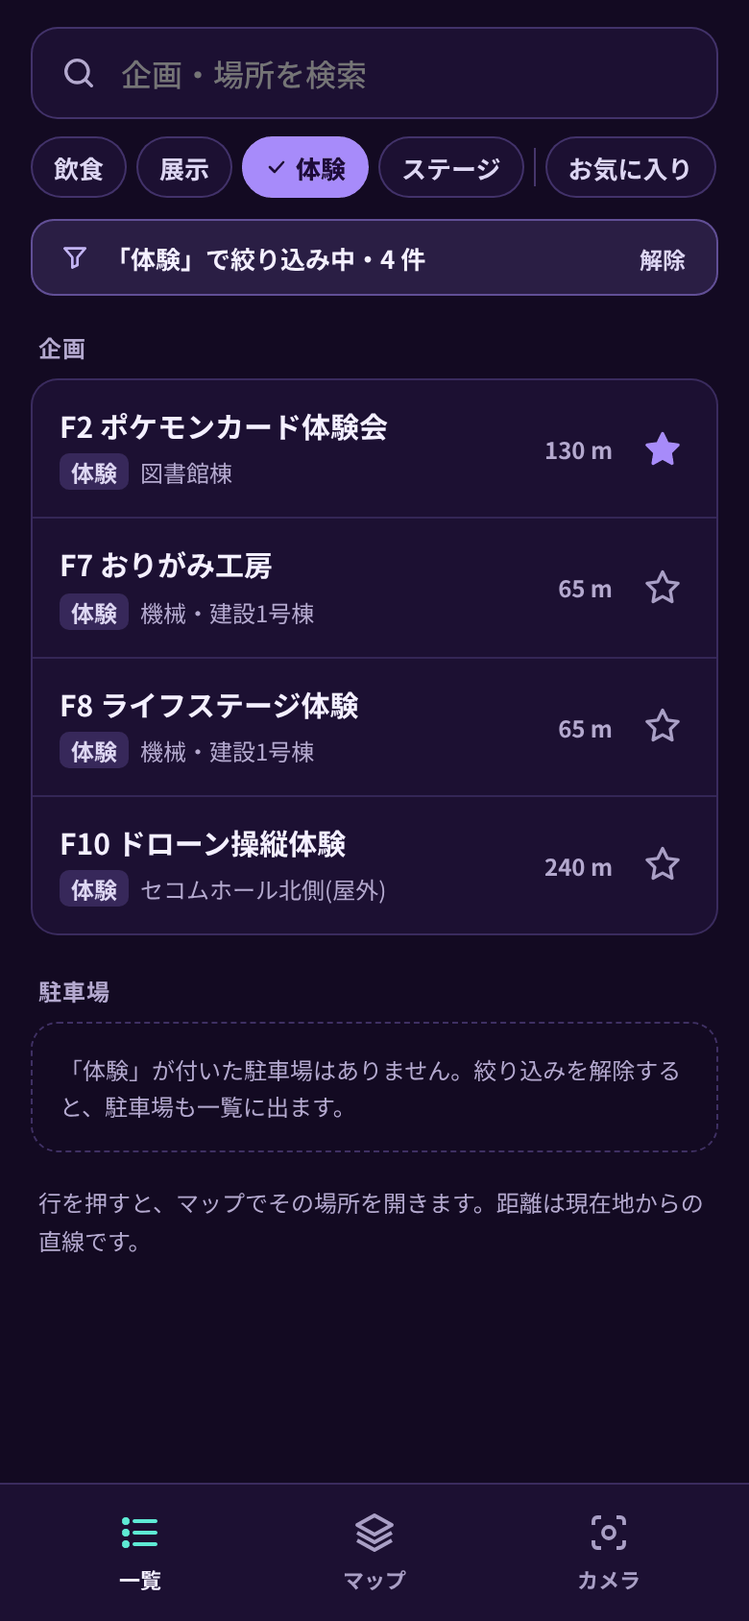
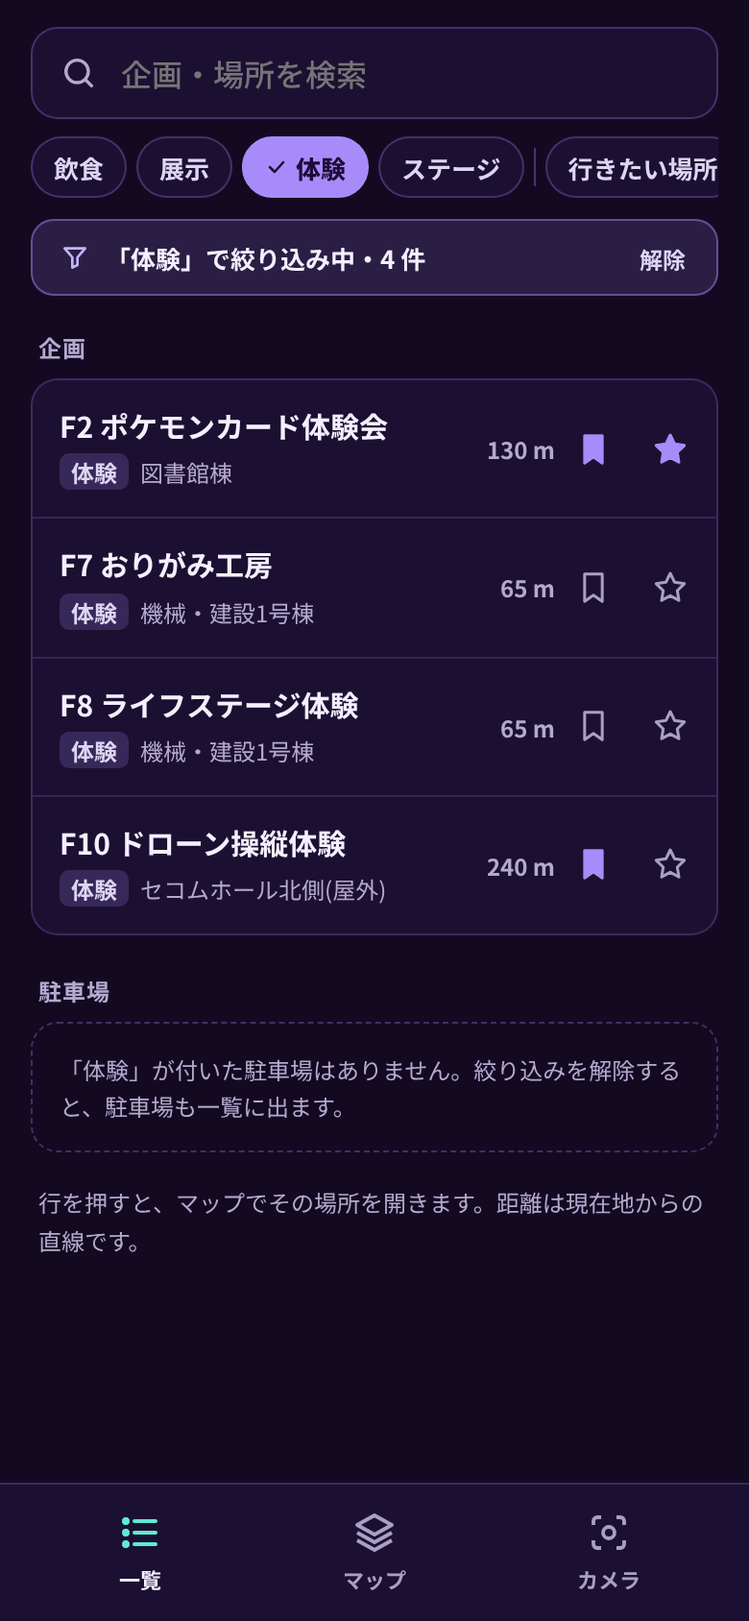
画面設計に D-012〜D-014(絞り込みと検索、行き先、自分用のタグ)を反映

diff --git a/doc/screen-design/screen-selection.md b/doc/screen-design/screen-selection.md
@@ -1,6 +1,6 @@
 # NAsVI 画面選定
 
-作成: 2026-11-20 / 状態: チームの合意前の案
+作成: 2026-11-20 / 更新: 2026-11-21(D-012〜D-014 を反映) / 状態: チームの合意前の案
 
 - もとにした概念設計: `concept-design/concepts.yaml` と `doc/concept-design.md`(r4、main `b4cf226`)
 - 画面のワイヤーフレーム: [wireframe.md](wireframe.md)(画像と付箋)。表の「ワイヤーフレーム」列の V1-a などは、ワイヤーフレームの画面の名前
@@ -9,8 +9,8 @@
 この文書で使う記号
 
 - **F1〜F5**: 機能(`input.yaml`)。F1 行きたい場所を見つける、F2 行き先へ向かう、F3 混雑・感想を知る、F4 種類・自分用タグから選ぶ(任意)、F5 迷いを解く(任意)。「F2 の失敗時」などは、`criteria.yaml` の評価基準を指す
-- **OQ-n**: 未決事項(`open-questions.yaml`)。この文書に出てくるのは OQ-1(場所を登録する運営をどう識別するか)と OQ-2(GPS が取れないとき、現在地を手で指定する操作を入れるか)
-- **D-004**: 設計の判断の記録(`decisions.yaml`)。「地図は表現なので概念にしない」
+- **OQ-n**: 未決事項(`open-questions.yaml`)。この文書に出てくるのは OQ-1(場所を登録する運営をどう識別するか)、OQ-2(GPS が取れないとき、現在地を手で指定する操作を入れるか)、OQ-13(自作タグの名前の決まりと上限)
+- **D-nnn**: 設計の判断の記録(`decisions.yaml`)。この文書に出てくるのは D-004(地図は表現なので概念にしない)、D-012(絞り込みは検索結果にも効かせる)、D-013(行き先は場所のカードの「ここへ向かう」で決める)、D-014(自分用のタグは「行きたい場所」「お気に入り」と自作。保存は各自の端末の中)
 - **同期**: 概念どうしをつなぐ規則(`concepts.yaml` の syncs)。search-places などは同期の名前
 - **※**: 概念設計の変更が要る所。1 章の後半の表にまとめた(決めるのはチーム)
 
@@ -21,8 +21,8 @@
 | 概念 | 目的 | 来場者が行う操作 | 運営が行う操作 |
 |---|---|---|---|
 | Place(場所) | 運営が登録した場所(企画・駐車場)を、来場者が知る | 場所の一覧と位置を見る(showPlaces)、1 件の情報を見る | 場所を登録・編集・削除する(registerPlace・updatePlace・removePlace) |
-| Search(検索) | 名前の一部から、目当ての場所を見つける | 名前の一部で探す(search)、文章で探す(searchNatural、拡張) | なし(場所を登録すると、自動で検索の対象に入る) |
-| Labeling(種類・自分用タグ) | 種類や自分用のタグで絞って選ぶ | 種類で絞る・解除する(applyFilter・clearFilter・browse)、お気に入りを付ける・外す(markPlace・unmarkPlace。初めて付けるときは defineMyTag も) | 種類を定める・場所に付ける(defineLabel・assignLabel) |
+| Search(検索) | 名前の一部から、目当ての場所を見つける | 名前の一部で探す(search)、文章で探す(searchNatural、拡張)。絞り込み中は、結果も絞る(D-012) | なし(場所を登録すると、自動で検索の対象に入る) |
+| Labeling(種類・自分用タグ) | 種類や自分用のタグで絞って選ぶ | 種類やタグで絞る・解除する(applyFilter・clearFilter・browse)、「行きたい場所」「お気に入り」・自作のタグを付ける・外す(markPlace・unmarkPlace)、自作のタグを作る(defineMyTag)。タグは各自の端末の中に保存し、API には載せない(D-014) | 種類を定める・場所に付ける(defineLabel・assignLabel) |
 | Position(現在地) | 自分がいま会場のどこにいるかを知る | 位置の利用を許可・拒否する(allowLocation・refuseLocation)、手で現在地を指定する(setPosition、OQ-2)。現在地の更新(reportPosition)は端末が自動で行う | なし |
 | Destination(行き先) | 向かう先を 1 つ決め、方角と距離の案内を受ける | 行き先を決める(chooseDestination)、案内を見る(showRoute)、案内をやめる(※) | なし |
 | Stamp(スタンプ) | 足元にスタンプを押して混雑や感想を共有し、他の人がそれを見て場所を選ぶ | スタンプを押す(pressStamp)、取り消す(retractStamp)、地図で見る(showStamps) | なし |
@@ -37,6 +37,8 @@
 | 設備(案内所・トイレ・休憩所・ゴミ箱)の印 | V1 マップ、表示する印 | Place.kind に設備の種類を足す |
 | 建物の中の地図と、階の切り替え | 建物の中の地図、O1、O2 | Place に「建物と階」を持たせる。階ごとの見取り図は、目的が Place とも Landmark とも違うので、新しい概念の候補 |
 | 案内をやめる | 案内中 | 来場者が Destination.clear を呼ぶ同期を足す(いまは、場所を削除したときの連動からしか呼ばれない) |
+| 検索結果の絞り込み(D-012) | 検索結果、一致なし | 同期 search-places の where に、絞り込み(Labeling.filtering)を入れる(#17) |
+| 自分用のタグの端末内保存と、最初からある 2 つのタグ(D-014) | 場所のカード、タグを付ける・作る、V2 一覧 | Labeling.owner を残すか外すか。「行きたい場所」「お気に入り」を初期のラベルとしてどう表すか(defineMyTag は自作の分だけになる)(#17) |
 
 なお、地図に表示する印の切り替え(チェック)は画面の中の見せ方なので、概念設計の変更は要らない(端末の中に保存する)。
 
@@ -46,15 +48,16 @@
 
 | 画面 | 主役の概念 | 一緒に表示する概念 | できる操作 | まとめた/分けた理由 | ワイヤーフレーム |
 |---|---|---|---|---|---|
-| **V1 マップ(ホーム)** | Place(場所の位置) | Position、Stamp、Labeling(絞り込み)、Search(検索窓)、設備の印 ※ | 地図を見る、拡大・縮小する、種類やお気に入りで絞る、検索窓に入力する、建物の旗を押す、スタンプボタンを押す、現在地へ移動する | 位置を持つ概念は、どれも地図に重ねて描ける(D-004)。F2(行き先を決めたら、追加の操作なしで方角と距離が出る)、F3(スタンプは 2 操作以内)、F4(絞ると地図の印も絞られる)を満たすため、1 つの画面にまとめた。全体と拡大は同じ画面の見せ方の違いで、屋外の企画の名前とスタンプの文字は、拡大したときだけ出す | V1-a、V1-i |
-| └ 検索結果(V1 に重ねる) | Search | Place(名前・場所・距離) | 名前の一部で探す、結果を押してカードを開く、一致しないときは別の言葉で探すか一覧へ移る | 同期 search-places は Search と Place を同時に読むので、同じ所に出す。結果から場所のカードまで画面を変えずに進めるよう、地図の上に重ねた。一致しないとき(F1 の失敗時)も、同じ場所で次の手を示す | V1-b、V1-c |
-| └ 場所のカード(V1 に重ねる) | Place(1 件) | Destination、Labeling(お気に入り) | 場所の情報を見る、ここへ向かう、お気に入りを付ける・外す | 行き先にする・お気に入りにするは、どちらも 1 つの場所に対する操作なので、同じカードにまとめた。場所の位置は地図の上で意味を持つので、地図に重ねる。カードを開いただけでは行き先にせず、見るだけ(F1)と向かう(F2)を分けた | V1-d |
+| **V1 マップ(ホーム)** | Place(場所の位置) | Position、Stamp、Labeling(絞り込み)、Search(検索窓)、設備の印 ※ | 地図を見る、拡大・縮小する、種類や自分用のタグで絞る、検索窓に入力する、建物の旗を押す、スタンプボタンを押す、現在地へ移動する | 位置を持つ概念は、どれも地図に重ねて描ける(D-004)。F2(行き先を決めたら、追加の操作なしで方角と距離が出る)、F3(スタンプは 2 操作以内)、F4(絞ると地図の印も絞られる)を満たすため、1 つの画面にまとめた。全体と拡大は同じ画面の見せ方の違いで、屋外の企画の名前とスタンプの文字は、拡大したときだけ出す | V1-a、V1-i |
+| └ 検索結果(V1 に重ねる) | Search | Place(名前・場所・距離)、Labeling(絞り込み中の表示 ※) | 名前の一部で探す、結果を押してカードを開く、絞り込みを解除する、一致しないときは別の言葉で探すか一覧へ移る | 同期 search-places は Search と Place を同時に読むので、同じ所に出す。結果から場所のカードまで画面を変えずに進めるよう、地図の上に重ねた。絞り込み中は検索結果も絞る(D-012)ので、帯でそのことを示し、解除できるようにした。一致しないとき(F1 の失敗時)も、同じ場所で次の手を示す | V1-b、V1-c |
+| └ 場所のカード(V1 に重ねる) | Place(1 件) | Destination、Labeling(行きたい場所・お気に入り) | 場所の情報を見る、ここへ向かう、行きたい場所・お気に入りを付ける・外す、タグの画面を開く | 行き先にする・タグを付けるは、どちらも 1 つの場所に対する操作なので、同じカードにまとめた。場所の位置は地図の上で意味を持つので、地図に重ねる。カードを開いただけでは行き先にせず、「ここへ向かう」で決める(D-013)。見るだけ(F1)と向かう(F2)を分けるため | V1-d |
+| └ タグを付ける・作る(V1 に重ねる) | Labeling(自分用のタグ)※ | Place(1 件) | タグを付ける・外す、新しいタグを作る | タグは 1 つの場所に付けるので、場所のカードの「＋ タグ」から開く。自作のタグは名前を入れる欄が要るので、カードとは別のシートにした。タグは端末の中にだけ保存する(D-014)ので、消えることがあると、ここで伝える。名前の決まりと上限は未決(OQ-13) | V1-l |
 | └ 案内中(V1 に重ねる) | Destination | Position、Place | 方角・距離・更新時刻を見る、カメラで見る、案内をやめる ※ | 同期 guide-on-move は Position・Destination・Place を同時に読む。F2(追加の操作なしで位置関係が分かる)を満たすため、別の画面に移さず、カードをそのまま案内の表示に切り替える | V1-e |
 | └ スタンプを押す(V1 に重ねる) | Stamp | Position | 混雑 1〜5 か、感想 3 種類のどれかを押す、取り消す | 同期 press-stamp は Position の現在地を使う。F3(2 操作以内)を満たすため、スタンプボタン → 種類 の 2 操作で押せるシートにした | V1-f |
 | └ 位置が使えない(V1 の状態) | Position | なし | 位置の利用を許可する、地図で現在地を指定する(OQ-2) | 位置の許可・拒否は端末の許可の結果なので、別の画面にはしない。F2 の失敗時の扱い(できなくなることと、代わりにできること)を、地図の上の帯で示す | V1-g |
 | └ 表示する印(V1 に重ねる) | なし(見せ方の設定) | Place(企画・駐車場・設備 ※)、Stamp(混雑・感想) | 地図に出す印をチェックで選ぶ、すべて表示する | どの概念の状態も変えない見せ方の設定なので、概念にはしない。Labeling の絞り込みは場所を選ぶための機能で、目的が違う。そのため、上のチップ列とは別のパネルに分けた | V1-h |
 | └ 建物の中の地図(V1 に重ねる) | Place(建物と階で絞る)※ | 階ごとの見取り図 ※ | 階を切り替える(最初は 1 階)、企画を押してカードを開く | 屋内の企画の名前は、建物を開いたときに初めて出す。階の切り替えは 1 つの建物の中の操作なので、建物ごとのシートにまとめた | V1-j、V1-k |
-| **V2 一覧** | Place(名前と種別) | Labeling(種類で選ぶ・絞り込み・お気に入り)、Search(検索窓) | 種類で絞る、名前で探す、お気に入りを付ける、行を押してカードを開く | 概念は V1 の一部なので、統合もできる。それでも分けたのは、評価基準が一覧を求めているため(F1・F5 の失敗時に「一覧から探す」、F4 で「種類を選ぶと一覧が出る」)。地図を見ずに、名前や種類で選ぶ人の入口になる。絞り込みの状態は V1 と共有する | V2 |
+| **V2 一覧** | Place(名前と種別) | Labeling(種類やタグで選ぶ・絞り込み・行きたい場所・お気に入り)、Search(検索窓) | 種類やタグで絞る、名前で探す、行きたい場所・お気に入りを付ける、行を押してカードを開く | 概念は V1 の一部なので、統合もできる。それでも分けたのは、評価基準が一覧を求めているため(F1・F5 の失敗時に「一覧から探す」、F4 で「種類を選ぶと一覧が出る」)。地図を見ずに、名前や種類で選ぶ人の入口になる。絞り込みの状態は V1 と共有する | V2 |
 | **V3 カメラ** | Landmark | Place(棟の企画)、Destination(案内バー)、Position | 建物を映す、棟の企画を押す、一覧かマップへ移る | 入力が映像で、画面全体を使う。映像は端末の中で処理し、保存も送信もしない。F5 は任意の機能なので、外すときに画面ごと外せるよう分けた。案内バーを重ねれば、カメラで向かう道案内も兼ねる | V3-a、V3-b、V3-c |
 | **O1 場所の登録・管理**(運営) | Place | Labeling(種類)、建物と階 ※ | 場所を登録・編集・削除する、種類を定める・付ける | 実行者が運営なので(同期の条件「実行者が場所を管理できる」、OQ-1)、来場者の画面と分けた。種類は場所を登録するときに付けるので、同じ画面にした。検索への登録は同期が自動で行うので、画面は要らない | O1 |
 | **O2 建物の登録・管理**(運営) | Landmark | 階ごとの見取り図 ※ | 建物と基準画像を登録・編集・削除する、階の見取り図を登録する | O1 と同じ運営の操作だが、基準画像という別のデータを扱う。F5 を外すときに外しやすいよう、O1 と分けた | O2 |
@@ -85,6 +88,7 @@ flowchart TB
     H["V1-h 表示する印"]
     J["V1-j 建物の中の地図・1階"]
     K["V1-k 建物の中の地図・2階"]
+    T["V1-l タグを付ける・作る"]
   end
   subgraph V3["V3 カメラ(認識の結果で切り替わる)"]
     Va["V3-a 認識できた"]
@@ -111,6 +115,7 @@ flowchart TB
   A -->|"スタンプボタン"| F
   A -.->|"位置を拒否"| G
   D -->|"ここへ向かう"| E
+  D <-->|"＋ タグ"| T
   E -->|"カメラで見る"| V3
   L -->|"行を押す"| D
   Va -->|"棟の企画を押す"| D

diff --git a/doc/screen-design/wireframe.md b/doc/screen-design/wireframe.md
@@ -1,16 +1,16 @@
 # NAsVI ワイヤーフレーム
 
-状態: チームの合意前の案 / 書き出し: 2026-11-20
+状態: チームの合意前の案 / 書き出し: 2026-11-21(D-012〜D-014 を反映)
 
 - 画面の選び方(概念の一覧・画面一覧・画面遷移図)は [screen-selection.md](screen-selection.md)
 - 元のデータは Claude の Design キャンバス(https://claude.ai/artifact/ARBxEgg7ybog3kZK7Qzpo2 )。このページの画像は、そこから書き出したもの。直すときはキャンバスを直し、画像を書き出し直す
 - 来場者はスマートフォンの縦持ち(390×844)、運営は PC。地図の建物の形は © OpenStreetMap contributors(ODbL)
-- 各画像の下の文は、キャンバスの付箋と同じ。引用(左に線)の文は要確認と、概念設計の変更が要る所(※)。記号(F1〜F5・OQ-n・D-nnn・同期・※)の意味は、下の凡例の画像にある
+- 各画像の下の文は、キャンバスの付箋と同じ。引用(左に線)の文は、決まったこと(D-nnn)・未決(OQ-n)・要確認と、概念設計の変更が要る所(※)。記号(F1〜F5・OQ-n・D-nnn・同期・※)の意味は、下の凡例の画像にある
 
 ## 目次
 
 - 凡例
-- 来場者 V1 マップ(ホーム): V1-a マップ・全体、V1-b 検索結果、V1-c 一致なし、V1-d 場所のカード、V1-e 案内中、V1-f スタンプを押す、V1-g 位置が使えない、V1-h 表示する印、V1-i マップ・拡大、V1-j 建物の中の地図・1階、V1-k 建物の中の地図・2階
+- 来場者 V1 マップ(ホーム): V1-a マップ・全体、V1-b 検索結果、V1-c 一致なし、V1-d 場所のカード、V1-e 案内中、V1-f スタンプを押す、V1-g 位置が使えない、V1-h 表示する印、V1-i マップ・拡大、V1-j 建物の中の地図・1階、V1-k 建物の中の地図・2階、V1-l タグを付ける・作る
 - 来場者 V2 一覧・V3 カメラ: V2 一覧(種類で絞り込み中)、V3-a カメラ・認識できた、V3-b カメラ・企画なし、V3-c カメラ・認識できない
 - 運営(PC): O1 場所の登録・管理(運営・PC)、O2 建物の登録・管理(運営・PC)
 - ライト配色・色の例・共通の地図: ライト V1-a マップ・全体、ライト V1-h 表示する印、色の例(ダーク・ライト)、部品: 会場の地図(共通)
@@ -29,13 +29,14 @@
 
 - **主役**: Place(場所の位置)
 - **一緒に表示**: Position、Stamp、Labeling(絞り込み)、Search(検索窓)、設備の印 ※
-- **操作**: 地図を見る、拡大・縮小する、種類やお気に入りで絞る、検索窓に入力する、建物の旗を押す、スタンプボタンを押す、現在地へ移動する
+- **操作**: 地図を見る、拡大・縮小する、種類や自分用のタグで絞る、検索窓に入力する、建物の旗を押す、スタンプボタンを押す、現在地へ移動する
 - **理由**: 位置を持つ概念は、どれも地図に重ねて描ける(D-004)。F2(行き先を決めたら、追加の操作なしで方角と距離が出る)、F3(スタンプは 2 操作以内)、F4(絞ると地図の印も絞られる)を満たすため、1 つの画面にまとめた
 - **要求**: showPlaces、showStamps、reportPosition
 - 建物の形は長岡技術科学大学の OpenStreetMap(出典を画面に表示)
 - 企画のある建物に旗と企画数。押すと建物の中の地図(V1-j)
 - スタンプは色の丸(混雑は橙の濃淡、感想は 3 種類のマーク)
 - 設備(案内所・トイレ・休憩所・ゴミ箱)は白い丸。位置は仮
+- チップは横にスクロール。種類のあとに自分用のタグ(行きたい場所・お気に入り、D-014)
 
 ### V1-b 検索結果
 
@@ -44,15 +45,16 @@
 **V1-b 検索結果(V1 に重ねる)**
 
 - **主役**: Search
-- **一緒に表示**: Place(名前・場所・距離)
-- **操作**: 名前の一部で探す、結果を押してカードを開く、一致しないときは別の言葉で探すか一覧へ移る
-- **理由**: 同期 search-places は Search と Place を同時に読むので、同じ所に出す。結果から場所のカードまで画面を変えずに進めるよう、地図の上に重ねた
+- **一緒に表示**: Place(名前・場所・距離)、Labeling(絞り込み中の表示 ※)
+- **操作**: 名前の一部で探す、結果を押してカードを開く、絞り込みを解除する、一致しないときは別の言葉で探すか一覧へ移る
+- **理由**: 同期 search-places は Search と Place を同時に読むので、同じ所に出す。結果から場所のカードまで画面を変えずに進めるよう、地図の上に重ねた。絞り込み中は検索結果も絞る(D-012)ので、帯で示して解除できるようにした
 - **要求**: search
 - 入力のたびに、検索窓の下に結果。企画名・場所・直線距離
 - 結果を押すと V1-d のカードへ
+- この盤は「行きたい場所」で絞り込み中の状態(解除すると 3 件)
 - 「文章で探す」(searchNatural)は Laya の拡張(OQ-8)
 
-> **要確認: 絞り込み中に、検索結果も絞るか。概念設計では、絞り込みは show-places にだけ効く**
+> **決定(D-012): 絞り込み中は、検索結果も絞る。concepts.yaml の同期 search-places は、まだ直していない(#17 でチームが決める)**
 
 ### V1-c 一致なし
 
@@ -62,6 +64,7 @@
 
 - **理由**: 一致しないとき(F1 の失敗時)も、同じ場所で次の手を示す
 - 何も出さないのではなく、一致が無いことを出す
+- 絞り込み中は「絞り込みを解除して探す」を先に出す(D-012)。絞り込みをしていないときは、この 1 行と説明を出さない
 - 「別の言葉で探す」: 入力を消して打ち直す
 - 「一覧から探す」: V2 へ
 
@@ -72,14 +75,15 @@
 **V1-d 場所のカード(V1 に重ねる)**
 
 - **主役**: Place(1 件)
-- **一緒に表示**: Destination、Labeling(お気に入り)
-- **操作**: 場所の情報を見る、ここへ向かう、お気に入りを付ける・外す
-- **理由**: 行き先にする・お気に入りにするは、どちらも 1 つの場所に対する操作なので、同じカードにまとめた。場所の位置は地図の上で意味を持つので、地図に重ねる。カードを開いただけでは行き先にせず、見るだけ(F1)と向かう(F2)を分けた
-- **要求**: chooseDestination、markPlace / unmarkPlace(初めて付けるときは defineMyTag も)
+- **一緒に表示**: Destination、Labeling(行きたい場所・お気に入り)
+- **操作**: 場所の情報を見る、ここへ向かう、行きたい場所・お気に入りを付ける・外す、タグの画面(V1-l)を開く
+- **理由**: 行き先にする・タグを付けるは、どちらも 1 つの場所に対する操作なので、同じカードにまとめた。場所の位置は地図の上で意味を持つので、地図に重ねる。カードを開いただけでは行き先にせず、「ここへ向かう」で決める(D-013)。見るだけ(F1)と向かう(F2)を分けるため
+- **要求**: chooseDestination、markPlace / unmarkPlace
 - 検索結果、一覧、建物の中の地図(V1-k)、カメラ(V3)から開く
-- お気に入りは押すと切り替わる。他の来場者には見えない
+- 行きたい場所・お気に入りは押すと切り替わる。自作のタグは「＋ タグ」から(V1-l)
+- タグは端末の中に保存し、他の来場者には見えない(D-014)
 
-> **要確認: カードを開いただけでは行き先にせず、「ここへ向かう」を押したときに行き先にする形でよいか**
+> **決定(D-013): カードを開いただけでは行き先にせず、「ここへ向かう」を押したときに行き先にする。経路は直線のまま(D-003)**
 
 ### V1-e 案内中
 
@@ -188,6 +192,23 @@
 - 屋内の企画の名前は、建物を開いたときに初めて出る
 - 見取り図の印か一覧の行を押すと、場所のカード(V1-d)へ
 
+### V1-l タグを付ける・作る
+
+<img src="wireframe/V1l-tags.png" width="390" alt="V1-l タグを付ける・作る">
+
+**V1-l タグを付ける・作る(V1 に重ねる)**
+
+- **主役**: Labeling(自分用のタグ)※
+- **一緒に表示**: Place(1 件)
+- **操作**: タグを付ける・外す、新しいタグを作る
+- **理由**: タグは 1 つの場所に付けるので、場所のカードの「＋ タグ」から開く。自作のタグは名前を入れる欄が要るので、カードとは別のシートにした
+- **要求**: markPlace / unmarkPlace、defineMyTag(自作のタグを作るとき)
+- 最初からあるタグは「行きたい場所」「お気に入り」(D-014)
+- 作ると、開いている場所にそのまま付く
+- タグは端末の中にだけ保存する。消えることがあると、このシートで伝える(D-014、#17)
+
+> **未決(OQ-13): 自作タグの名前の決まり(空欄・重複・文字数)と上限数、名前の変更・削除、最初からある 2 つを消せるか。タグを作る画面を設計するときに決める(チーム)。この盤では仮置き**
+
 ## 来場者 V2 一覧・V3 カメラ
 
 ### V2 一覧(種類で絞り込み中)
@@ -197,12 +218,13 @@
 **V2 一覧(下部タブ)**
 
 - **主役**: Place(名前と種別)
-- **一緒に表示**: Labeling(種類で選ぶ・絞り込み・お気に入り)、Search(検索窓)
-- **操作**: 種類で絞る、名前で探す、お気に入りを付ける、行を押してカードを開く
+- **一緒に表示**: Labeling(種類やタグで選ぶ・絞り込み・行きたい場所・お気に入り)、Search(検索窓)
+- **操作**: 種類やタグで絞る、名前で探す、行きたい場所・お気に入りを付ける、行を押してカードを開く
 - **理由**: 概念は V1 の一部なので、統合もできる。それでも分けたのは、評価基準が一覧を求めているため(F1・F5 の失敗時に「一覧から探す」、F4 で「種類を選ぶと一覧が出る」)。地図を見ずに、名前や種類で選ぶ人の入口になる。絞り込みの状態は V1 と共有する
-- **要求**: showPlaces、browse、applyFilter / clearFilter、markPlace
+- **要求**: showPlaces、browse、applyFilter / clearFilter、markPlace / unmarkPlace
 - 種類のチップを 1 回押すと、その種類の一覧(F4: 1 操作)
 - 絞り込み中は帯と件数で分かる(F4)
+- 行の右の しおり = 行きたい場所、星 = お気に入り。押すと切り替わる(端末の中に保存、D-014)
 - 空なら「この種類の場所はありません」と解除(F4 の失敗時)
 
 ### V3-a カメラ・認識できた
